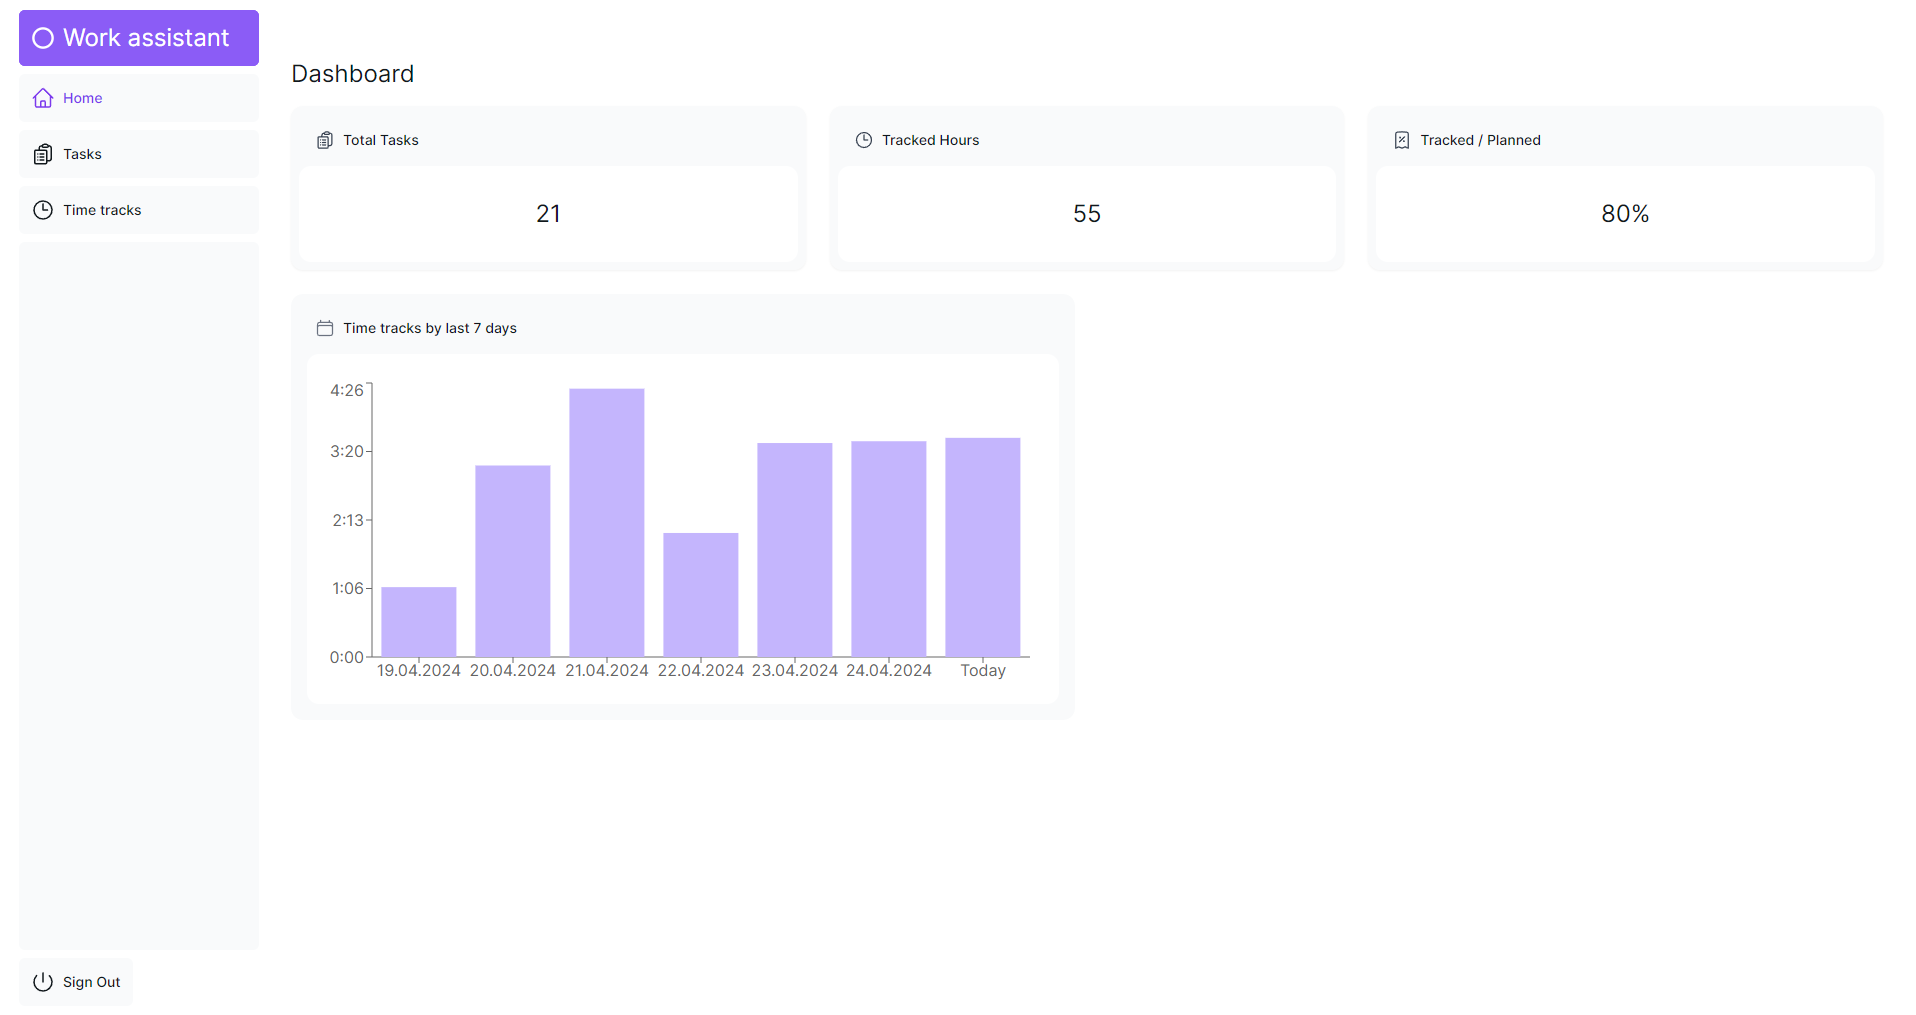
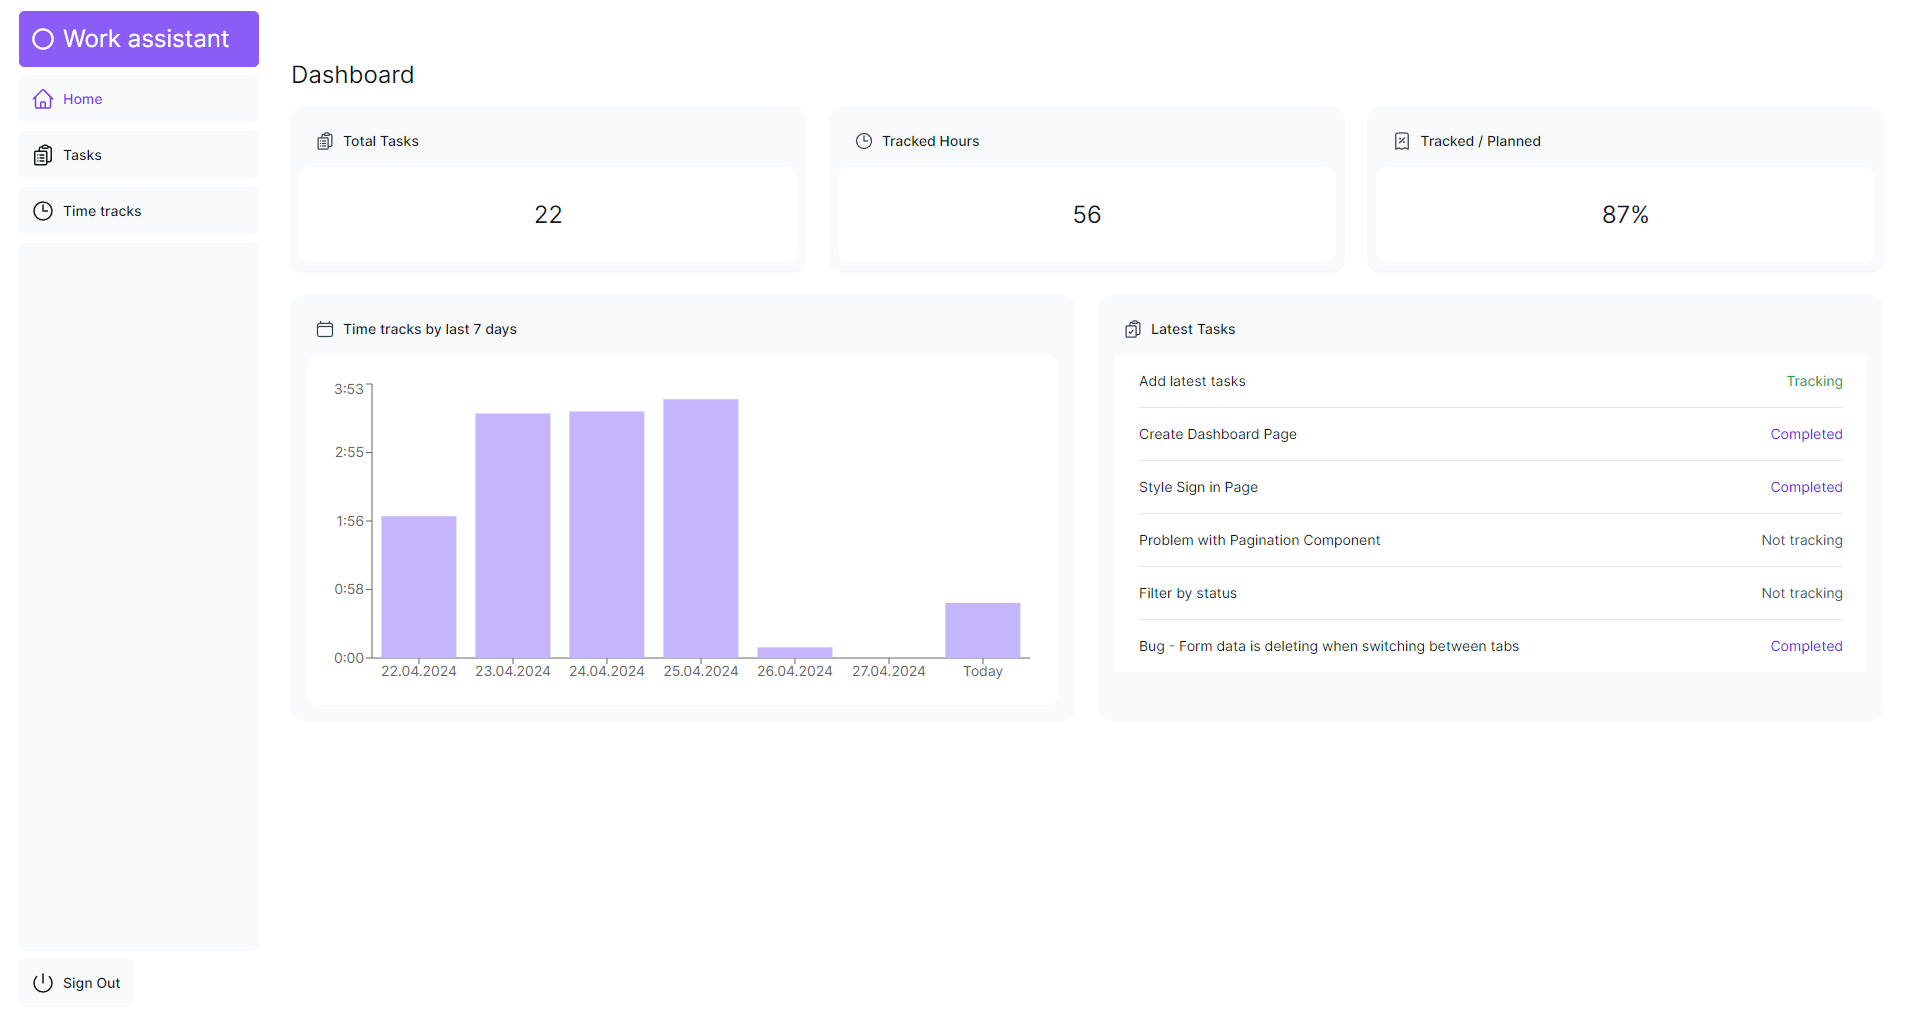
Add Latest Tasks on Dashboard Page

diff --git a/src/app/ui/skeletons.tsx b/src/app/ui/skeletons.tsx
@@ -7,13 +7,14 @@ export default function DashboardSkeleton() {
   return (
     <>
       <div
-        className={`${shimmer} relative mb-4 h-8 w-36 overflow-hidden rounded-md bg-gray-100`}
+        className={`${shimmer} relative mb-4 h-8 w-36 overflow-hidden rounded-md bg-gray-50`}
       />
       <div className="grid gap-6 sm:grid-cols-2 lg:grid-cols-3">
         <CardsSkeleton />
       </div>
-      <div className="mt-6 grid grid-cols-1 gap-6 md:grid-cols-4 lg:grid-cols-8">
+      <div className="mt-6 grid grid-cols-1 gap-6 md:grid-cols-2">
         <TrackingChartSkeleton />
+        <LatestTasksSkeleton />
       </div>
     </>
   );
@@ -32,11 +33,11 @@ export function CardsSkeleton() {
 export function CardSkeleton() {
   return (
     <div
-      className={`${shimmer} relative overflow-hidden rounded-xl bg-gray-100 p-2 shadow-sm`}
+      className={`${shimmer} relative overflow-hidden rounded-xl bg-gray-50 p-2 shadow-sm`}
     >
       <div className="flex p-4">
         <div className="h-5 w-5 rounded-md bg-gray-200" />
-        <div className="ml-2 h-6 w-16 rounded-md bg-gray-200 text-sm font-medium" />
+        <div className="ml-2 h-6 w-32 rounded-md bg-gray-200" />
       </div>
       <div className="flex items-center justify-center truncate rounded-xl bg-white px-4 py-8">
         <div className="h-7 w-20 rounded-md bg-gray-200" />
@@ -47,15 +48,52 @@ export function CardSkeleton() {
 
 export function TrackingChartSkeleton() {
   return (
-    <div className={`${shimmer} relative w-full overflow-hidden md:col-span-4`}>
-      <div className="mb-4 h-8 w-36 rounded-md bg-gray-100" />
-      <div className="rounded-xl bg-gray-100 p-4">
-        <div className="sm:grid-cols-7 mt-0 grid h-[350px] grid-cols-7 items-end gap-2 rounded-md  bg-white p-4 md:gap-4" />
-        <div className="flex items-center pb-2 pt-6">
-          <div className="h-5 w-5 rounded-full bg-gray-200" />
-          <div className="ml-2 h-4 w-20 rounded-md bg-gray-200" />
+    <div
+      className={`${shimmer} relative overflow-hidden rounded-xl bg-gray-50 shadow-sm`}
+    >
+      <div className="w-full">
+        {<div className="rounded-xl bg-gray-50 p-4">
+        <div className="flex p-4 pl-2 pt-2">
+          <div className="h-5 w-5 rounded-md bg-gray-200" />
+          <div className="ml-2 h-6 w-64 rounded-md bg-gray-200" />
+        </div>
+          <div className='bg-white h-[350px] p-6 pb-3 pl-0 rounded-xl w-full'></div>
+        </div>}
+      </div>
+    </div>
+  );
+}
+
+export function LatestTasksSkeleton() {
+  return (
+    <div
+      className={`${shimmer} relative overflow-hidden rounded-xl bg-gray-50 shadow-sm`}
+    >
+      <div className="flex w-full flex-col">
+        <div className="flex grow flex-col rounded-xl bg-gray-50 p-4">
+          <div className="flex p-4 pl-2 pt-2">
+            <div className="h-5 w-5 rounded-md bg-gray-200" />
+            <div className="ml-2 h-6 w-32 rounded-md bg-gray-200" />
+          </div>
+          <div className="bg-white divide-y px-6">
+            <TaskSkeleton />
+            <TaskSkeleton />
+            <TaskSkeleton />
+            <TaskSkeleton />
+            <TaskSkeleton />
+            <TaskSkeleton />
+          </div>
         </div>
       </div>
+    </div>
+  )
+}
+
+export function TaskSkeleton() {
+  return (
+    <div className={`flex flex-row items-center justify-between gap-4 py-4 text-sm`}>
+      <p className="h-5 w-1/2 bg-gray-200"></p>
+      <p className="h-5 w-1/4 bg-gray-200"></p>
     </div>
   );
 }

diff --git a/src/app/ui/dashboard/latest-tasks.tsx b/src/app/ui/dashboard/latest-tasks.tsx
@@ -1,0 +1,41 @@
+import clsx from 'clsx';
+import { fetchLatestTasks } from '@/src/app/lib/data';
+import { TaskStatus } from '@prisma/client';
+import { ClipboardDocumentCheckIcon } from '@heroicons/react/24/outline';
+
+export default async function LatestTasks() {
+  const latestTasks = await fetchLatestTasks();
+  return (
+    <div className="flex w-full flex-col">
+      <div className="flex grow flex-col rounded-xl bg-gray-50 p-4">
+        <div className="flex p-4 pl-2 pt-2">
+            <ClipboardDocumentCheckIcon className="h-5 w-5 text-gray-700" />
+            <h3 className="ml-2 text-sm font-medium">Latest Tasks</h3>
+        </div>
+        <div className="bg-white divide-y px-6">
+          {latestTasks.map((task, i) => {
+            return (
+              <div
+                key={task.id}
+                className='flex flex-row items-center justify-between gap-4 py-4 text-sm'
+              >
+                <p className="truncate">
+                    {task.title}
+                </p>
+                <p className={clsx("min-w-[82px] text-right", {
+                    'text-slate-600': task.status === TaskStatus.NOTTRACKING,
+                    'text-green-600': task.status === TaskStatus.TRACKING,
+                    'text-violet-700': task.status === TaskStatus.COMPLETED,
+                })}>
+                  {task.status === TaskStatus.NOTTRACKING ? "Not tracking" 
+                    : task.status === TaskStatus.TRACKING ? "Tracking" 
+                    : "Completed"}
+                </p>
+              </div>
+            );
+          })}
+        </div>
+      </div>
+    </div>
+  );
+}

diff --git a/src/app/dashboard/(overview)/page.tsx b/src/app/dashboard/(overview)/page.tsx
@@ -1,11 +1,12 @@
 import CardWrapper from '@/src/app/ui/dashboard/cards';
 import TrackingChart from '@/src/app/ui/dashboard/tracking-chart';
 import { Suspense } from 'react';
-import { CardsSkeleton, TrackingChartSkeleton } from '@/src/app/ui/skeletons';
+import { CardsSkeleton, TrackingChartSkeleton, LatestTasksSkeleton } from '@/src/app/ui/skeletons';
 import { Metadata } from 'next';
 import { auth } from '@/auth';
 import { redirect } from 'next/navigation';
 import { fetchLatestTimeTracks } from '@/src/app/lib/data';
+import LatestTasks from '@/src/app/ui/dashboard/latest-tasks';
 
 export const metadata: Metadata = {
   title: 'Dashboard',
@@ -31,6 +32,9 @@ export default async function Page() {
         <div className="mt-6 grid grid-cols-1 gap-6 md:grid-cols-2">
             <Suspense fallback={<TrackingChartSkeleton />}>
                 <TrackingChart timeTracks={latestTimeTracks}/>
+            </Suspense>
+            <Suspense fallback={<LatestTasksSkeleton />}>
+                <LatestTasks />
             </Suspense>
         </div>
     </main>

diff --git a/src/app/ui/dashboard/tracking-chart.tsx b/src/app/ui/dashboard/tracking-chart.tsx
@@ -61,11 +61,11 @@ export default function TrackingChart({
   return (
     <div className="w-full">
       {<div className="rounded-xl bg-gray-50 p-4">
-      <div className="flex p-4 pl-2 pt-2">
-          <CalendarIcon className="h-5 w-5 text-gray-500" />
-          <h3 className="ml-2 text-sm font-medium">Time tracks by last 7 days</h3>
-      </div>
-        <ResponsiveContainer className='bg-white p-6 pb-3 pl-0 rounded-xl' width="100%" height="100%" minHeight={350}>
+        <div className="flex p-4 pl-2 pt-2">
+            <CalendarIcon className="h-5 w-5 text-gray-700" />
+            <h3 className="ml-2 text-sm font-medium">Time tracks by last 7 days</h3>
+        </div>
+        <ResponsiveContainer className='bg-white p-6 pb-3 pl-0 rounded-xl text-sm' width="100%" height="100%" minHeight={350}>
           <BarChart data={timeTracksByDay}>
             <XAxis dataKey="day" tickFormatter={(value) => new Date().toLocaleDateString() === value ? 'Today' : value}/>
             <YAxis tickFormatter={value => formatTimeDuration(value)} />

diff --git a/src/app/lib/data.ts b/src/app/lib/data.ts
@@ -112,6 +112,30 @@ export async function fetchLatestTimeTracks() {
   }
 }
 
+export async function fetchLatestTasks() {
+  noStore();
+
+  const session = await auth();
+  const userId = session?.user?.id;
+
+  try {
+    const tasks = await prisma.task.findMany({
+      where: {
+        userId: userId,
+      },
+      orderBy: {
+        createdAt: 'desc'
+      },
+      take: 6,
+    })
+
+    return tasks;
+  } catch (err) {
+    console.error('Database Error:', err);
+    throw new Error('Failed to fetch latest Tasks.');
+  }
+}
+
 // Tasks
 export async function fetchFilteredTasks(
   query: string, 

diff --git a/src/app/lib/actions.ts b/src/app/lib/actions.ts
@@ -431,6 +431,12 @@ export async function updateTimeTrack(id: string, prevState: UpdateTimeTrackStat
     };
   }
 
+  if (endTime > new Date().toISOString()) {
+    return {
+      message: "End can't be in the future",
+    };
+  }
+
   // Insert data into the database
   try {
     // Additional validation

diff --git a/README.md b/README.md
@@ -25,3 +25,4 @@ Increase efficiency and pleasure of your work.
 ## Screenshot
 
 ![Home](screenshots/opengraph-image.png)
+![Dashboard](screenshots/work-assistant-dashboard.png)
